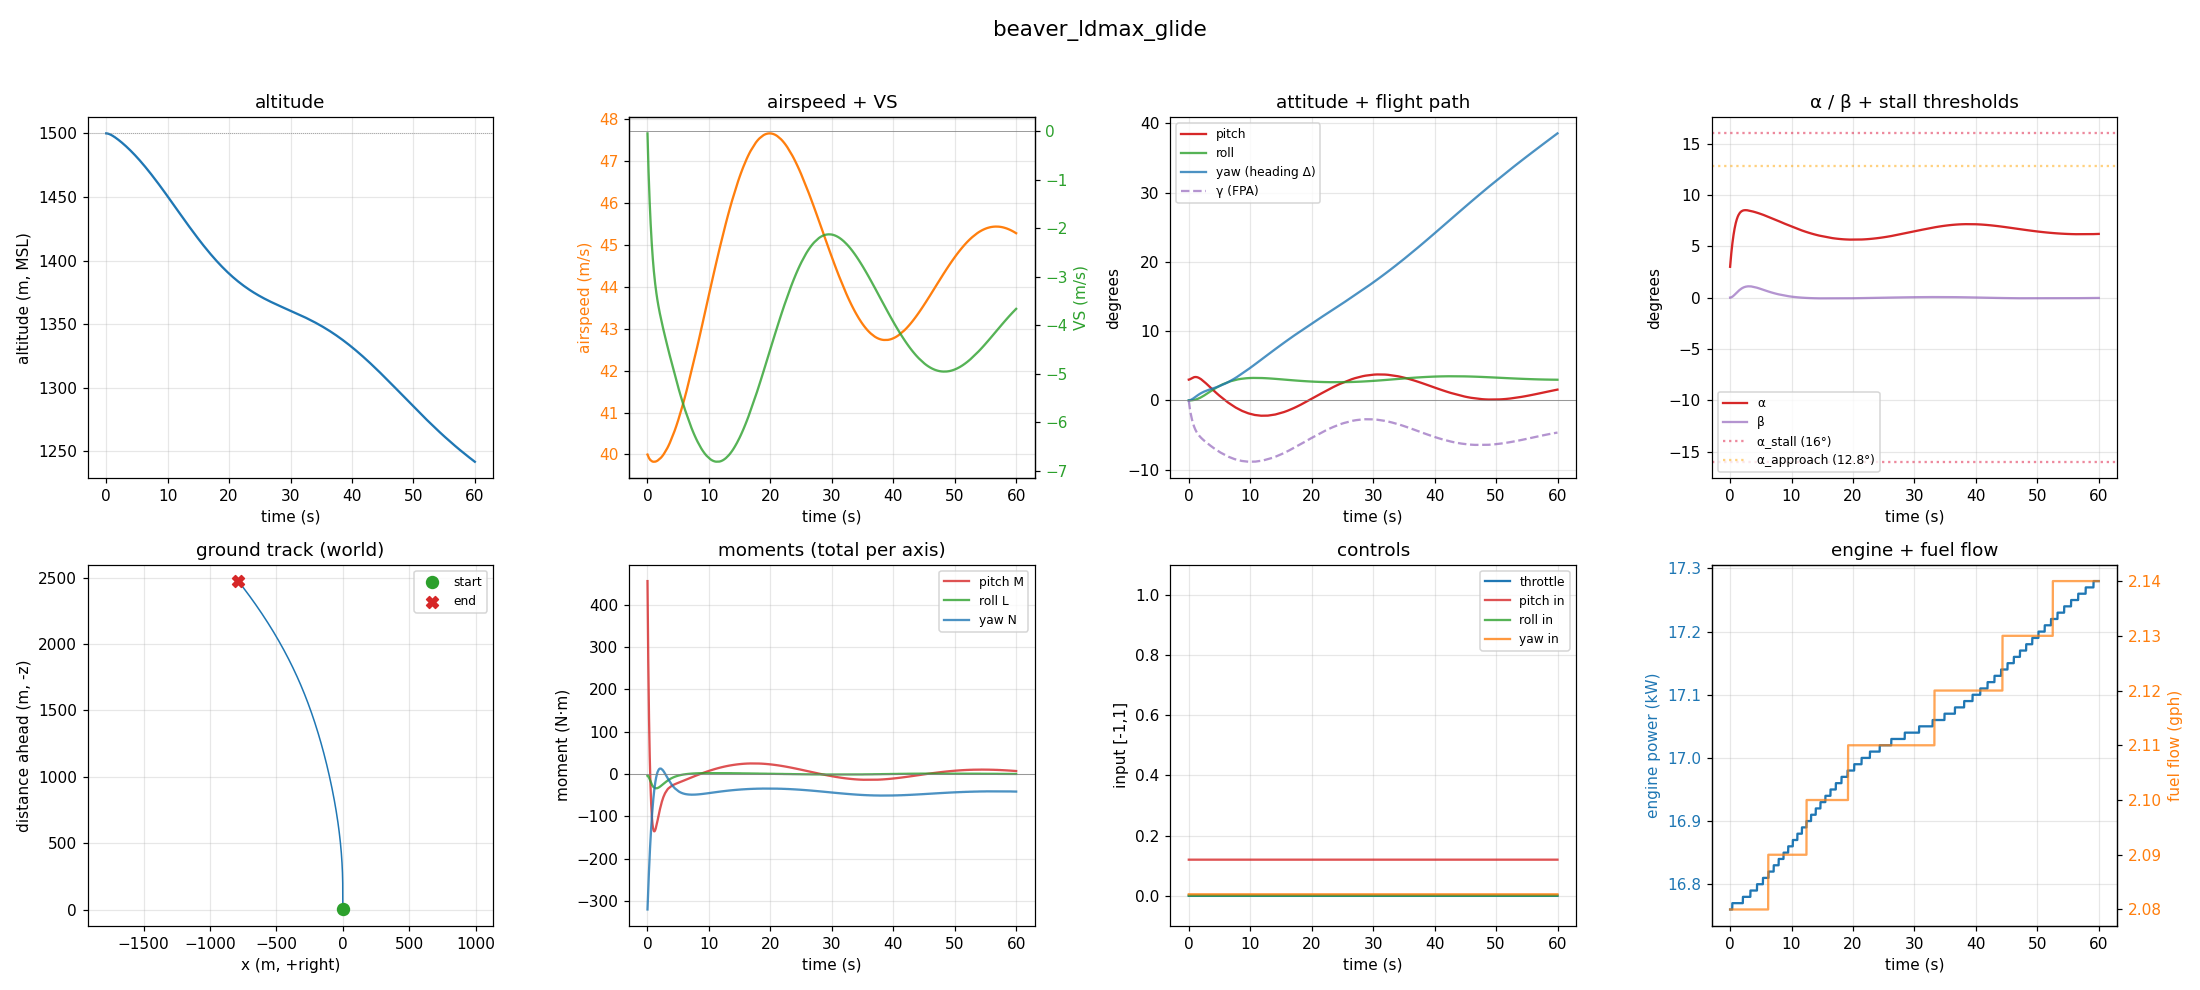
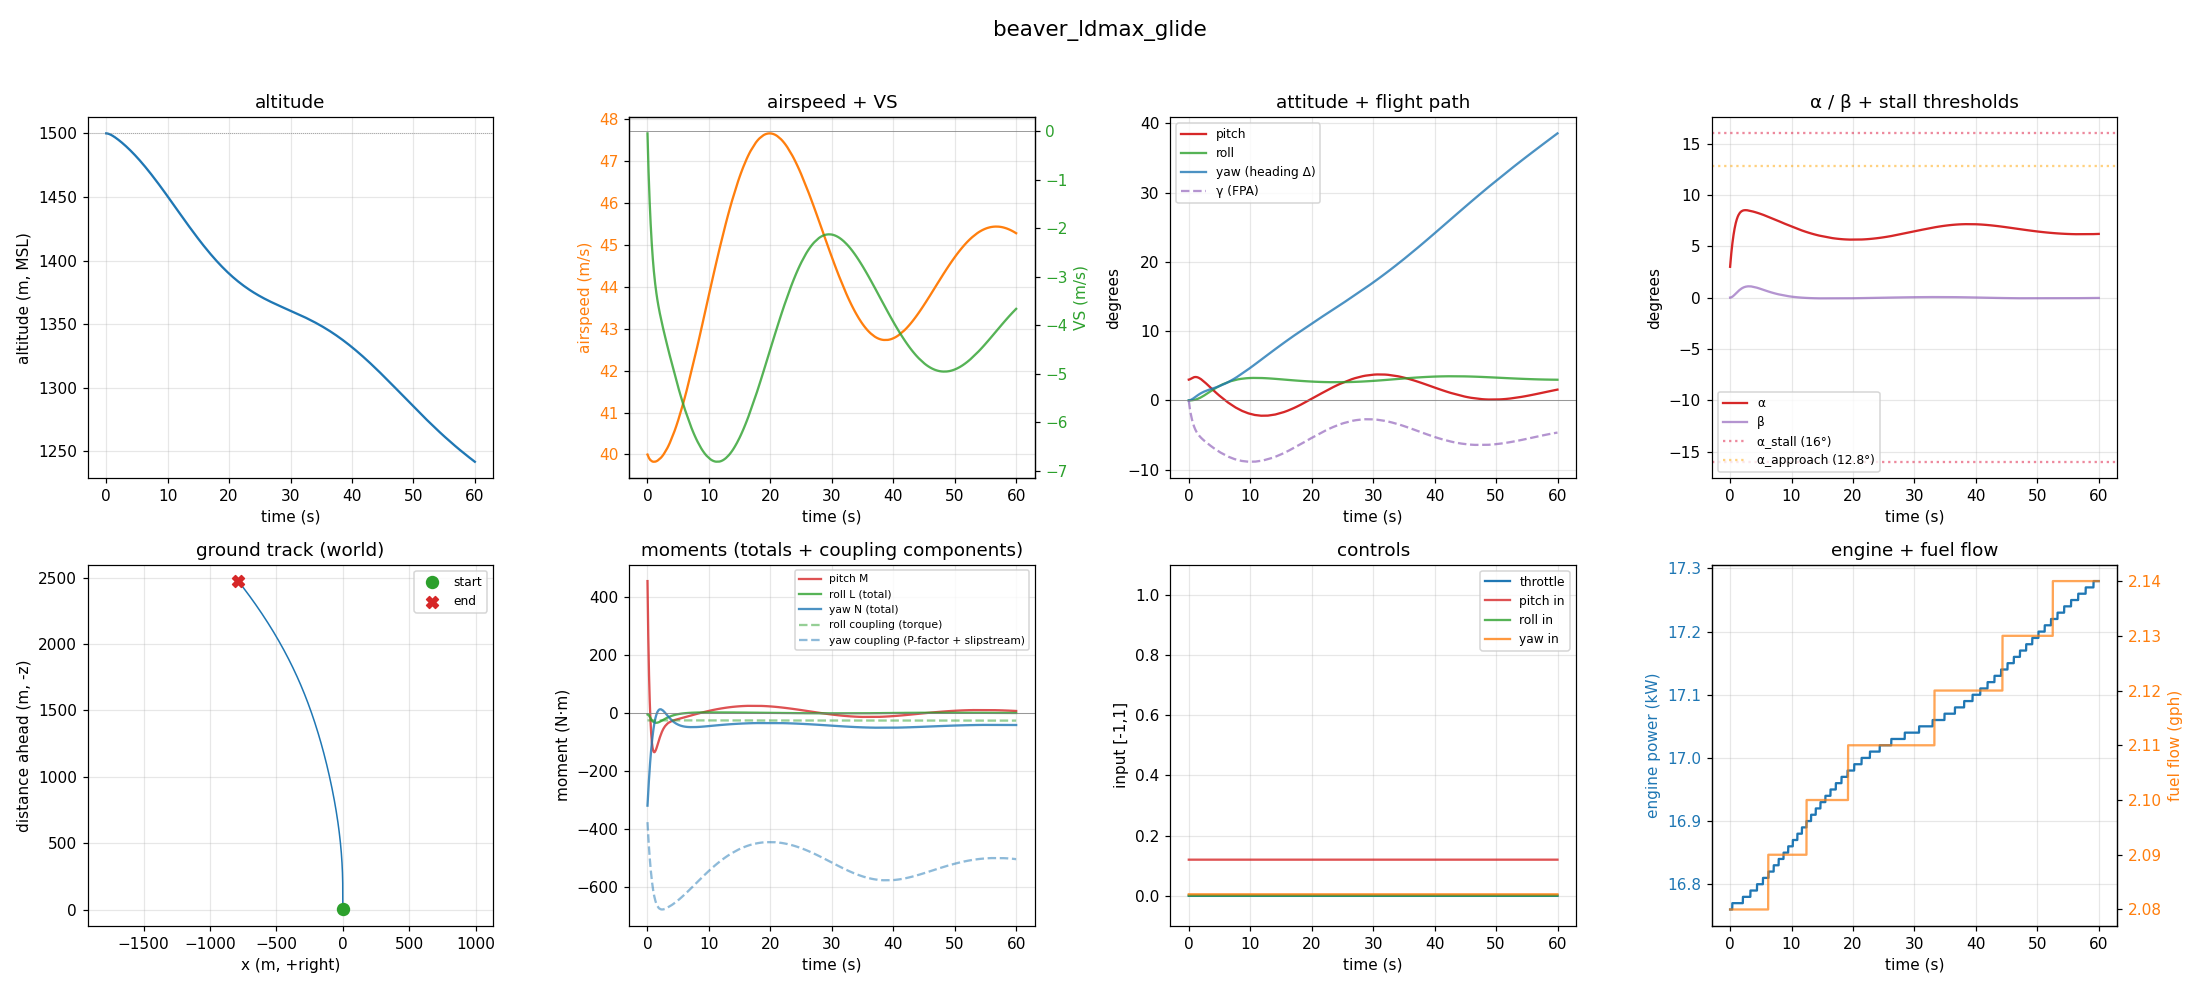
Phase 2.5: Water modeling efforts

diff --git a/crates/world/src/water.rs b/crates/world/src/water.rs
@@ -39,30 +39,66 @@ struct Wave {
 /// this up at runtime once Phase 3.2 weather + 2.5a.7 chop-intensity hook lands.
 ///
 /// Wave hierarchy:
-/// - Long swell (40 m wavelength): low-frequency rocking, barely perceptible.
-/// - Medium chop (5 m wavelength): visible texture, gentle aircraft rocking.
+/// - Long swell (40 m wavelength): minimal amplitude — provides slow large-scale
+///   rocking but cannot trigger foam alone, eliminating the long swathe pattern
+///   that previously dominated foam appearance.
+/// - Medium chop (5 m wavelength): primary surface texture and primary foam source.
 /// - Fine chop (2.5 m wavelength): granular surface detail.
 ///
-/// Total max amplitude 0.145 m — a reduction from the original 0.45 m that was
-/// dominating water-takeoff dynamics and producing visually-sweeping foam patches.
-const WAVES: [Wave; 3] = [
+/// Wave hierarchy (7 components): two long swells, three chop, two fine chop. More
+/// components break the plaid pattern that 3 waves produce (3 directions = 3 ridge
+/// systems intersecting in regular grids); 7 waves with varied directions,
+/// wavelengths, and slow speeds create the natural-looking interference patterns
+/// of a real water surface.
+///
+/// Total max amplitude 0.220 m — still well below the 0.45 m original that was
+/// disruptive. Swells slowed for more leisurely visual motion (and reduced
+/// pontoon impact in light winds).
+const WAVES: [Wave; 7] = [
+    // Long swells — the rollers
     Wave {
-        dir: (1.00, 0.20),
-        wavelength_m: 40.0,
-        amplitude_m: 0.08,
-        speed_mps: 4.0,
+        dir: (1.00, 0.30),
+        wavelength_m: 50.0,
+        amplitude_m: 0.040,
+        speed_mps: 3.5,
     },
     Wave {
-        dir: (0.30, 1.00),
-        wavelength_m: 5.0,
-        amplitude_m: 0.04,
+        dir: (0.70, 1.00),
+        wavelength_m: 35.0,
+        amplitude_m: 0.030,
+        speed_mps: 2.8,
+    },
+    // Chop — primary surface texture
+    Wave {
+        dir: (0.40, 1.00),
+        wavelength_m: 6.0,
+        amplitude_m: 0.045,
         speed_mps: 2.0,
     },
     Wave {
-        dir: (-0.60, 0.70),
-        wavelength_m: 2.5,
-        amplitude_m: 0.025,
+        dir: (-0.80, 0.50),
+        wavelength_m: 4.0,
+        amplitude_m: 0.045,
+        speed_mps: 1.7,
+    },
+    Wave {
+        dir: (1.00, -0.40),
+        wavelength_m: 3.0,
+        amplitude_m: 0.040,
         speed_mps: 1.4,
+    },
+    // Fine chop — high-frequency surface detail
+    Wave {
+        dir: (-0.30, 1.00),
+        wavelength_m: 2.0,
+        amplitude_m: 0.035,
+        speed_mps: 1.1,
+    },
+    Wave {
+        dir: (0.50, 0.85),
+        wavelength_m: 1.4,
+        amplitude_m: 0.025,
+        speed_mps: 0.85,
     },
 ];
 
@@ -143,7 +179,8 @@ mod tests {
 
     #[test]
     fn max_amplitude_matches_sum() {
-        // Post 2.5a wave-set retune: 0.080 + 0.040 + 0.025 = 0.145
-        assert!((max_amplitude() - 0.145).abs() < 1e-6);
+        // Post 2.5a 7-wave expansion (anti-plaid):
+        // 0.040 + 0.030 + 0.045 + 0.045 + 0.040 + 0.035 + 0.025 = 0.260
+        assert!((max_amplitude() - 0.260).abs() < 1e-6);
     }
 }

diff --git a/crates/sim/src/flight_bench.rs b/crates/sim/src/flight_bench.rs
@@ -192,6 +192,14 @@ pub struct BenchSample {
     pub roll_moment_nm: f32,
     pub yaw_moment_nm: f32,
 
+    // Per-axis coupling components — broken out so torque-roll, P-factor, spiral
+    // slipstream, adverse-yaw, ground-effect-on-pitch can be diagnosed in plots
+    // without parsing the full FlightOutputs. Roll-coupling is dominated by torque
+    // roll; yaw-coupling sums adverse-yaw + P-factor + spiral-slipstream; pitch-
+    // coupling is generally near zero.
+    pub roll_coupling_nm: f32,
+    pub yaw_coupling_nm: f32,
+
     // State flags (stored as ints for CSV compatibility: 0=Normal, 1=Approach, 2=Stall)
     pub stall_state: u32,
 }
@@ -238,6 +246,8 @@ impl BenchSample {
             pitch_moment_nm: flight.pitch_moment.total(),
             roll_moment_nm: flight.roll_moment.total(),
             yaw_moment_nm: flight.yaw_moment.total(),
+            roll_coupling_nm: flight.roll_moment.coupling,
+            yaw_coupling_nm: flight.yaw_moment.coupling,
             stall_state: match flight.stall_state {
                 StallState::Normal => 0,
                 StallState::Approach => 1,
@@ -253,7 +263,7 @@ impl BenchSample {
          alpha_deg,beta_deg,cl,cd,\
          throttle,pitch_in,roll_in,yaw_in,flap_deg,\
          engine_kw,prop_eff,fuel_gph,fuel_gal,\
-         pitch_M,roll_L,yaw_N,stall_state"
+         pitch_M,roll_L,yaw_N,roll_L_coupling,yaw_N_coupling,stall_state"
     }
 
     pub fn write_csv_row(&self, out: &mut String) {
@@ -265,7 +275,7 @@ impl BenchSample {
              {:.3},{:.3},{:.4},{:.4},\
              {:.3},{:.3},{:.3},{:.3},{:.1},\
              {:.2},{:.3},{:.2},{:.2},\
-             {:.1},{:.1},{:.1},{}",
+             {:.1},{:.1},{:.1},{:.1},{:.1},{}",
             self.tick,
             self.time_s,
             self.position_x,
@@ -296,6 +306,8 @@ impl BenchSample {
             self.pitch_moment_nm,
             self.roll_moment_nm,
             self.yaw_moment_nm,
+            self.roll_coupling_nm,
+            self.yaw_coupling_nm,
             self.stall_state,
         );
     }

diff --git a/tools/plot_telemetry.py b/tools/plot_telemetry.py
@@ -109,16 +109,38 @@ def plot_scenario(csv_path: Path, out_dir: Path) -> Path:
 
     # (1,1) Moment breakdown (N·m). pitch_M, roll_L, yaw_N are the TOTAL per-axis
     # aerodynamic moments after all contributions (control / stability / damping /
-    # coupling). Useful to see which axis is uncancelled in trimmed flight.
+    # coupling). The dashed lines show the COUPLING component of roll and yaw —
+    # roll-coupling is dominated by torque-roll (engine reaction); yaw-coupling
+    # sums adverse-yaw + P-factor + spiral-slipstream. Plotting them lets you see
+    # at a glance whether the aircraft is fighting torque vs. slipstream vs. aero
+    # restoring moments.
     ax = axes[1, 1]
     ax.plot(t, df["pitch_M"], label="pitch M", color="tab:red", alpha=0.8)
-    ax.plot(t, df["roll_L"], label="roll L", color="tab:green", alpha=0.8)
-    ax.plot(t, df["yaw_N"], label="yaw N", color="tab:blue", alpha=0.8)
+    ax.plot(t, df["roll_L"], label="roll L (total)", color="tab:green", alpha=0.8)
+    ax.plot(t, df["yaw_N"], label="yaw N (total)", color="tab:blue", alpha=0.8)
+    if "roll_L_coupling" in df.columns:
+        ax.plot(
+            t,
+            df["roll_L_coupling"],
+            label="roll coupling (torque)",
+            color="tab:green",
+            alpha=0.5,
+            linestyle="--",
+        )
+    if "yaw_N_coupling" in df.columns:
+        ax.plot(
+            t,
+            df["yaw_N_coupling"],
+            label="yaw coupling (P-factor + slipstream)",
+            color="tab:blue",
+            alpha=0.5,
+            linestyle="--",
+        )
     ax.axhline(0, color="grey", linewidth=0.5)
     ax.set_ylabel("moment (N·m)")
     ax.set_xlabel("time (s)")
-    ax.set_title("moments (total per axis)")
-    ax.legend(loc="best", fontsize=8)
+    ax.set_title("moments (totals + coupling components)")
+    ax.legend(loc="best", fontsize=7)
     ax.grid(True, alpha=0.3)
 
     # (1,2) Controls

diff --git a/crates/render/src/renderer.rs b/crates/render/src/renderer.rs
@@ -160,6 +160,12 @@ impl Default for SceneParams {
     }
 }
 
+/// Camera-follow snap pitch for the water mesh, meters. The water mesh's XZ origin
+/// snaps to multiples of this so vertex positions stay phase-stable frame-to-frame
+/// (avoids sub-meter shimmer). Picked smaller than typical wave wavelengths so the
+/// snap is invisible.
+const WATER_FOLLOW_SNAP_M: f32 = 4.0;
+
 #[repr(C)]
 #[derive(Clone, Copy, Debug, Pod, Zeroable)]
 struct SceneUniform {
@@ -714,6 +720,28 @@ impl Renderer {
             &self.vehicle.uniform_buf,
             0,
             bytemuck::bytes_of(&vehicle_uniform),
+        );
+
+        // Water mesh follows the camera in XZ so the limited-extent high-tessellation
+        // mesh stays around the aircraft (otherwise the aircraft would fly out of the
+        // visible water area in seconds at cruise speed). Y stays at 0 (mean water
+        // level). The wave shader samples the post-translation world position to
+        // compute Gerstner displacement, so waves remain spatially anchored — they
+        // don't visually slide with the camera. Snap to a few-meter pitch so vertices
+        // align across consecutive frames and waves don't shimmer.
+        let snap_x = (cam_pos.x / WATER_FOLLOW_SNAP_M).round() * WATER_FOLLOW_SNAP_M;
+        let snap_z = (cam_pos.z / WATER_FOLLOW_SNAP_M).round() * WATER_FOLLOW_SNAP_M;
+        let water_model = Mat4::from_translation(Vec3::new(snap_x, 0.0, snap_z));
+        let water_uniform = ModelUniform {
+            model: water_model.to_cols_array_2d(),
+            normal_mat: Mat4::IDENTITY.to_cols_array_2d(),
+            tint: self.water.tint,
+            shading: self.water.shading,
+        };
+        queue.write_buffer(
+            &self.water.uniform_buf,
+            0,
+            bytemuck::bytes_of(&water_uniform),
         );
 
         // Outline params: viewport size + tunables, written every frame so a resize is

diff --git a/crates/sim/src/flight.rs b/crates/sim/src/flight.rs
@@ -285,6 +285,24 @@ const RUDDER_SLIPSTREAM_Q_PER_N: f32 = 0.15;
 // the airframe LEFT. Magnitude scales with shaft power. At 335 kW max: ~500 N·m
 // rolling-left moment → ~0.1 rad/s² roll accel on I_zz=5000. Noticeable on power
 // changes, easy to counter with slight right aileron.
+//
+// Real-world dependencies (status):
+// - Throttle: YES — `engine_power_kw_out` already scales linearly with throttle
+//   (idle 20 kW at 0.0 → max 335 kW at 1.0). Torque scales 1:1 with this.
+// - Density altitude: YES — `engine_power_kw_out = engine_power_sl × rho_ratio`
+//   so torque automatically derates at altitude (2.4.7 density model).
+// - Prop pitch / feathering: NOT YET. Current model uses a fixed-pitch prop
+//   efficiency curve. When the constant-speed prop and feathering controls land
+//   (post-2.4 / Phase 4 cockpit milestone), torque will need a feather check:
+//   `if feathered { 0.0 } else { -K · power }`. Feathered prop blades go to ~90°
+//   pitch, dramatically unloading the engine — torque on the airframe drops to
+//   near zero (engine RPM races up, airframe stops feeling the reaction).
+// - Coupling airspeed gating: torque-roll is multiplied by `coupling_airspeed_factor`
+//   (ramp 5→20 m/s) which is non-physical (torque is engine reaction, not aero)
+//   but practical: at V=0 with full power, ungated torque produces a 0.1 rad/s²
+//   roll spin with no aero damping. Buoyancy fights it on water; ground physics
+//   (Phase 2.5b) will provide wheel-friction roll restoring on land. Once 2.5b
+//   lands the gating can be relaxed or removed.
 const TORQUE_ROLL_NM_PER_KW: f32 = 1.5;
 
 /// Airspeed ramp for rotational-coupling effects (P-factor + torque roll). Below

diff --git a/crates/app/src/game_app.rs b/crates/app/src/game_app.rs
@@ -81,10 +81,19 @@ const VEHICLE_SHADING: ShadingParams = ShadingParams::new(3.0, 0.35, 0.35, 3.0);
 /// reads as lit even in shadow), and a low rim (sun sparkle arrives with Gerstner waves).
 const WATER_SHADING: ShadingParams = ShadingParams::new(3.0, 0.55, 0.12, 3.5);
 
-/// Water tessellation. 64 cells across 4000 m half-extent matches the terrain patch so
-/// the two meet cleanly. Milestone 2.2.2 uses the existing vertices as Gerstner anchors.
-const WATER_CELLS: u32 = 64;
-const WATER_HALF_EXTENT: f32 = 4000.0;
+/// Water tessellation. Each vertex is a Gerstner anchor — wavelet visibility requires
+/// vertex spacing ≤ wavelength/Nyquist. With chop wavelengths down to 2.5 m, vertex
+/// spacing should be < 1.5 m for clean wavelet rendering. The previous 64×64 over
+/// 8 km (= 125 m/vertex) made chop completely under-sampled (visible only as a
+/// barely-perceptible noise texture). Current 512×512 over 2 km (= ~4 m/vertex)
+/// resolves chop at 5 m wavelengths cleanly, with the 2.5 m fine-chop near Nyquist
+/// (visible as a finer surface tremor). Far-field water is fog-faded, so the
+/// reduced extent (was 4 km half) doesn't visibly cap the horizon.
+///
+/// Vertex count: 263 169 (513² grid). Static mesh, uploaded once at startup; only
+/// the shader displaces them per-frame — minimal CPU cost.
+const WATER_CELLS: u32 = 512;
+const WATER_HALF_EXTENT: f32 = 1000.0;
 
 /// Deep cel-water tint. Cooler than the sky so the horizon reads. Alpha is unused by the
 /// cel shader.

diff --git a/skills/flowplan-flight-bench/references/behavior-taxonomy.md b/skills/flowplan-flight-bench/references/behavior-taxonomy.md
@@ -173,6 +173,96 @@ Not about the flight model -- about the bench itself.
 | Same scenario, two runs, identical logs | — | Asserted implicitly by integration test seed. |
 | Dial change mid-scenario produces deterministic fork | **[ready]** | Requires `DialChange` scripted input; validates dial-state is part of determinism hash. |
 
+## Real-world effect coverage matrix
+
+Per-effect coverage of the discrete physical phenomena the model implements. Distinct from the scenario taxonomy above (which groups by maneuver). This matrix tracks **whether a given physics effect is exercised by at least one scenario AND visible in plot output** — the "do we know it works and stays working?" check.
+
+Column meanings:
+- **Modeled**: implementation exists in `crates/sim/src/{flight,buoyancy}.rs`.
+- **Scenario**: at least one bench scenario produces non-trivial readings of this effect.
+- **Plot column**: column in the bench CSV / 2×4 panel plot where the effect is visible.
+- **Notes**: how to read the effect, current calibration status, known gaps.
+
+### Aerodynamic forces
+| Effect | Modeled | Scenario | Plot column | Notes |
+|--------|---------|----------|-------------|-------|
+| Lift (Cl(α) lookup) | yes | every aerial scenario | `cl`, `vs_mps` | Cl_max=2.0; cruise α≈3°→Cl≈0.4 |
+| Induced drag (Cl²) | yes | every aerial | `cd` | Oswald e=0.75 |
+| Parasite drag (Cd0) | yes | every aerial | `cd` | Cd0=0.055 |
+| Stall (Cl drop past α_stall) | yes | `*_stall_*` | `alpha_deg` past 16°, `stall_state` | Hard stall at 16° |
+| Post-stall pitching moment | yes | `*_stall_*` | `pitch_M` | -0.75 slope past stall |
+| Wing-drop differential | yes | `*_stall_*` | `roll_L` | Quarter-span Cl sampling |
+| Ground effect | yes | none yet (needs low-AGL scenario) | n/a | Phillips factor; tested via unit test |
+| Density altitude | yes | aerial scenarios show no climb degradation w/in altitude budget | `engine_kw` over altitude | exp(-h/8500) |
+
+### Aero couplings (cross-axis)
+| Effect | Modeled | Scenario | Plot column | Notes |
+|--------|---------|----------|-------------|-------|
+| α-stability (Cm_α restoring) | yes | every cruise | `pitch_M` near 0 at trim | Cm_α=-0.25 |
+| Pitch damping (Cm_q) | yes | implicit in steady cruise | `pitch_M` damping when q changes | Cm_q=-25 |
+| Aileron→roll (Cl_δa) | yes | turn scenarios | `roll_L` during entry | Cl_δa=0.075 |
+| Roll damping (Cl_p) | yes | turn scenarios stable bank | `roll_L` damping | Cl_p=-0.5 |
+| Dihedral (Cl_β) | yes | turn scenarios self-stabilize | `roll_L` from β | Cl_β=-0.05 (2.4.9a) |
+| Rudder→yaw (Cn_δr) | yes | every scenario w/ trim | `yaw_N` from yaw input | Cn_δr=0.04 |
+| Weathervane (Cn_β) | yes | `vne_dive`, turn entries | `yaw_N` from β | Cn_β=0.08 |
+| Yaw damping (Cn_r) | yes | turns | `yaw_N` damping | Cn_r=-0.6 |
+| Adverse yaw (Cn_δa) | yes | turn entries | `yaw_N_coupling` | -0.012 |
+| P-factor | yes | `cruise_climb` (high α + thrust) | `yaw_N_coupling` | arm=10m, gated below V=5 |
+| Spiral slipstream | yes | `cruise_climb`, takeoff scenarios | `yaw_N_coupling` | arm=2m, V_ref=20m/s (2.4.9b) |
+| Slipstream q-boost on rudder | yes | takeoff scenarios | rudder authority visible in `yaw_input` vs `yaw_N` | K=0.15 (2.5a follow-up) |
+| Torque roll | yes | every full-power scenario | `roll_L_coupling` | 1.5 N·m/kW; throttle ✓ density ✓ feathering ✗ (no prop control yet); airspeed-gated 5-20 m/s as numerical-stability stand-in until 2.5b ground contact |
+
+### Engine + fuel
+| Effect | Modeled | Scenario | Plot column | Notes |
+|--------|---------|----------|-------------|-------|
+| Power curve (linear in throttle) | yes | every scenario | `engine_kw` | 20-335 kW |
+| Prop efficiency curve | yes | varies w/ V | `prop_eff` | 0.30 static→0.82 cruise |
+| Fuel burn (BSFC) | yes | `endurance_cruise` | `fuel_gph`, `fuel_gal` | 0.124 gph/kW |
+| Density-altitude derate | yes | high-altitude scenarios | `engine_kw` falls w/ h | exp(-h/8500) |
+| Flameout at zero fuel | yes | unit test | `engine_kw → 0` when `fuel_gal == 0` | Tested in flight.rs |
+| V_min thrust clamp | yes | water scenarios at low V | `engine_kw` finite at V=0 | V_MIN_FOR_THRUST=12 |
+
+### Water contact (Phase 2.5a)
+| Effect | Modeled | Scenario | Plot column | Notes |
+|--------|---------|----------|-------------|-------|
+| Per-pontoon buoyancy | yes (2.5a.1) | `water_*` scenarios | `pos_y` settled at ~2.40 m | Multi-point sampling (5/pontoon) |
+| Vertical water damping | yes (2.5a.2) | water settle behavior | `vy` at low speeds bounded | Linear, distributed |
+| Horizontal water drag | yes (2.5a.2) | `water_taxi` | drag visible in `airspeed` plateauing | Quadratic, distributed |
+| Multi-point pitch restoring | yes (2.5a.3) | `water_takeoff` pitch bounded | `pitch_deg` ±0.8° on takeoff | Buoyancy fore/aft asymmetry |
+| Planing lift | yes (2.5a.3) | `water_takeoff` rises onto step | `pos_y` rises 2.40→2.55 | Quadratic in V_forward |
+| Planing pitch-up moment | yes (2.5a.3c) | bounded pitch on step | `pitch_deg` settles small | -1.5m fwd offset of CoP |
+| Wave clock determinism | yes (2.5a.1) | repeat runs byte-identical | n/a (state hash) | `wave_time` folded into state |
+
+### Controls + autopilot
+| Effect | Modeled | Scenario | Plot column | Notes |
+|--------|---------|----------|-------------|-------|
+| Slew-rate keyboard ramp | yes (2.4.4a) | n/a (bench uses scripted SetX) | n/a | 1.5/s, keyboard only |
+| Closed-loop bank hold | yes (2.4.9c) | turn scenarios | `roll_deg` tracks target | PID, also Phase 4.7 AP |
+| Closed-loop altitude hold | yes (2.4.9c) | turn scenarios | `pos_y` bounded | PID |
+| Closed-loop airspeed hold | yes (2.4.9c) | turn scenarios | `airspeed_mps` bounded | PID |
+| Closed-loop coordination | yes (2.4.9c) | turns + takeoff | `yaw_deg` drift killed | PID |
+| Vertical speed hold | yes (2.4.9c) | climb scenarios available | `vs_mps` | PID |
+| Heading hold | yes (2.4.9c) | n/a yet | n/a | PID |
+
+### Known unmodeled / partially-modeled effects
+| Effect | Status | Blocker |
+|--------|--------|---------|
+| Wind / gusts / shear | not modeled | Phase 3.2 weather |
+| Crosswind on landing | not modeled | Phase 3.2 weather |
+| Ground rolling friction | not modeled | Phase 2.5b ground |
+| Brake force | not modeled | Phase 2.5b |
+| Tailwheel steering | not modeled | Phase 2.5b |
+| Per-aircraft coefficients | hardcoded Beaver only | Phase 5.1 spec migration |
+| Asymmetric flap failure | not modeled | post-v1 |
+| Spin dynamics (autorotation, PARE) | not modeled | post-2.4 |
+| Carb ice | not modeled | post-MVP |
+| Pitch-dependent Cl_planing | not modeled | 2.5a.3b deferred (rotation tuning) |
+| Multi-point step geometry | simple wetted-fraction approx | 2.5a.3 limit; works for v1 |
+| Wake spawn (visual particles) | not modeled | 2.5a polish |
+| Spray effects | not modeled | 2.5a polish |
+
+When a new physics effect lands or a scenario starts exercising a new combination, **update this matrix** so coverage stays explicit. A scenario without a corresponding effect entry doesn't earn a coverage claim.
+
 ## How to propose a new category
 
 If a real-world behavior doesn't fit any row above:
